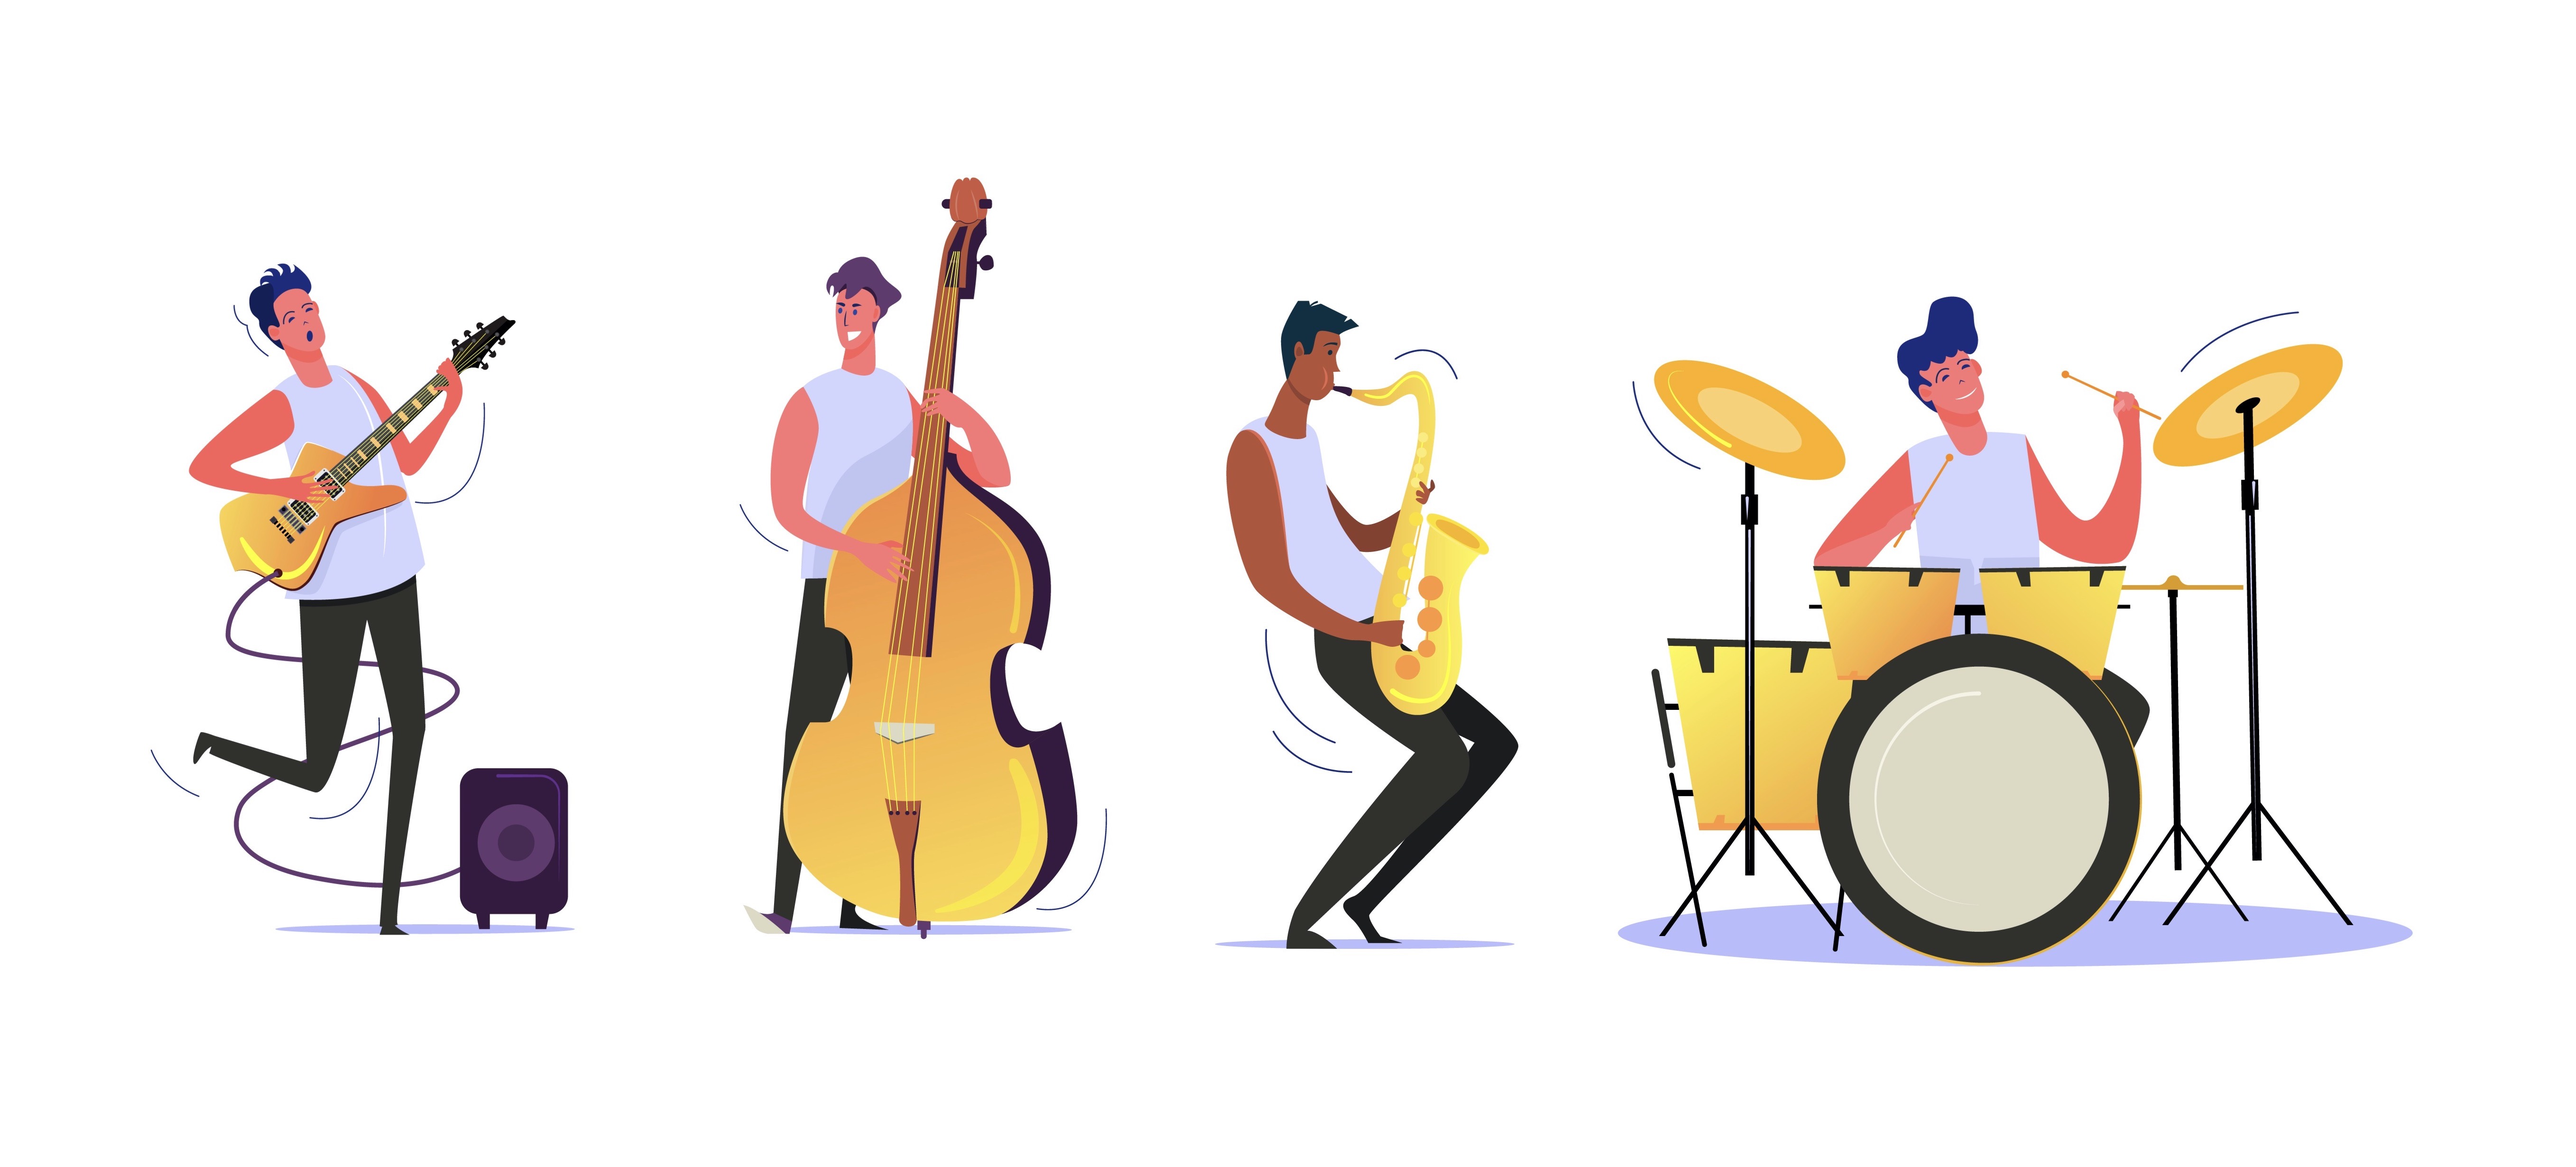
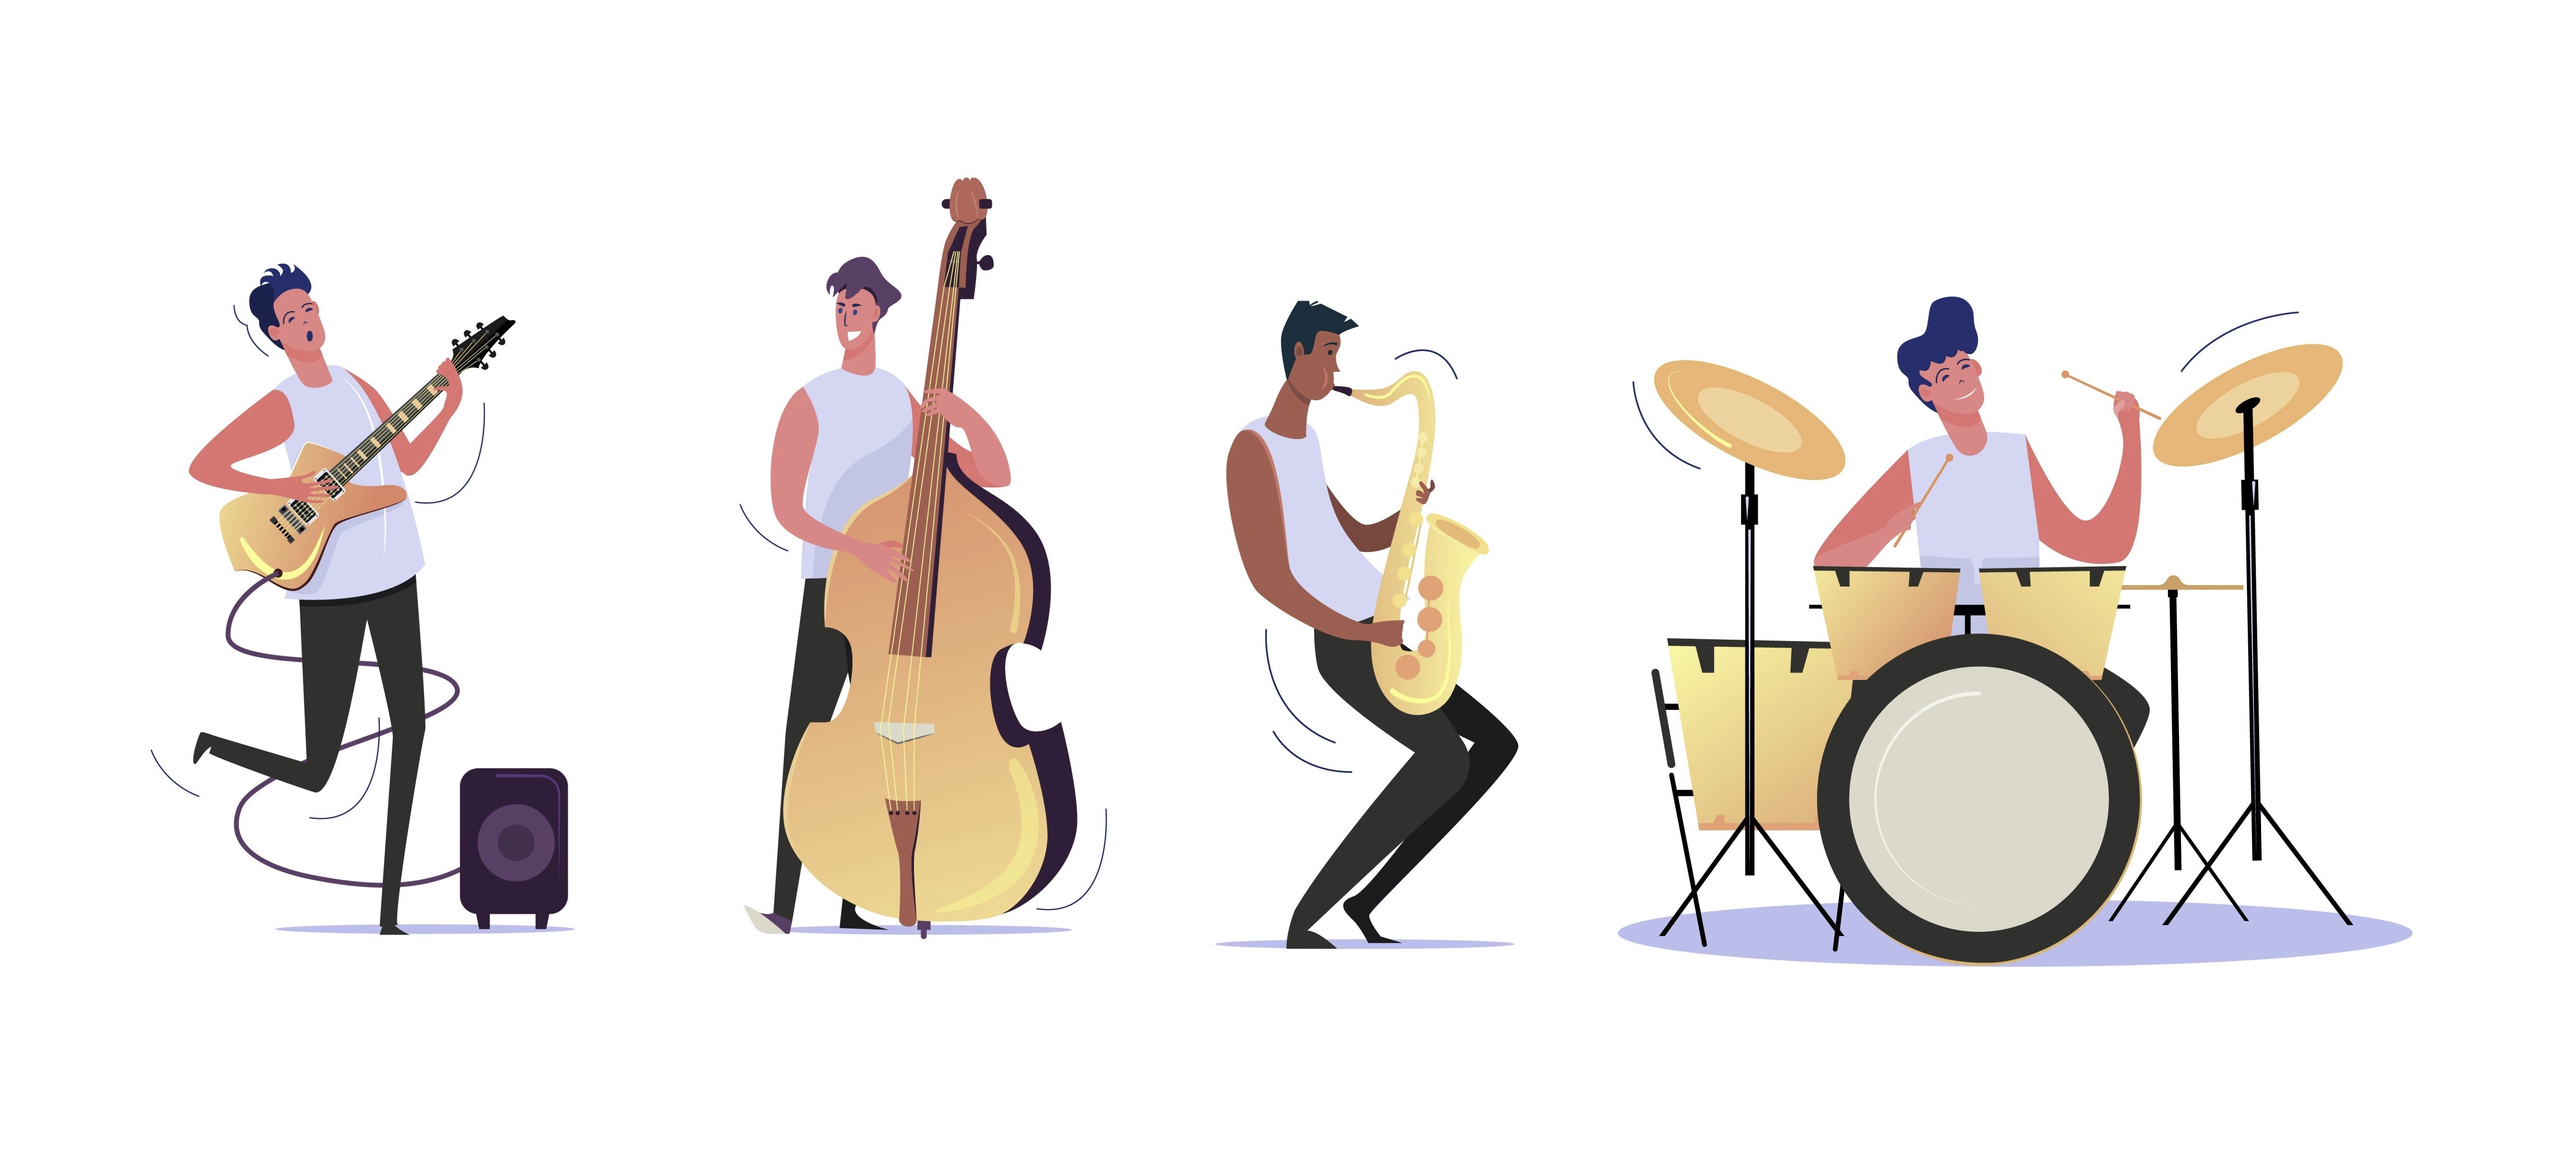
Corrected colors of images and changed a bit location of image "stage4"

diff --git a/styles/signup.css b/styles/signup.css
@@ -210,7 +210,7 @@ h1:hover {
   display: flex;
   position: absolute;
   margin: auto;
-  margin-left: 8vw;
+  margin-left: 9vw;
   width: 90%;
   z-index: -1;
 }
